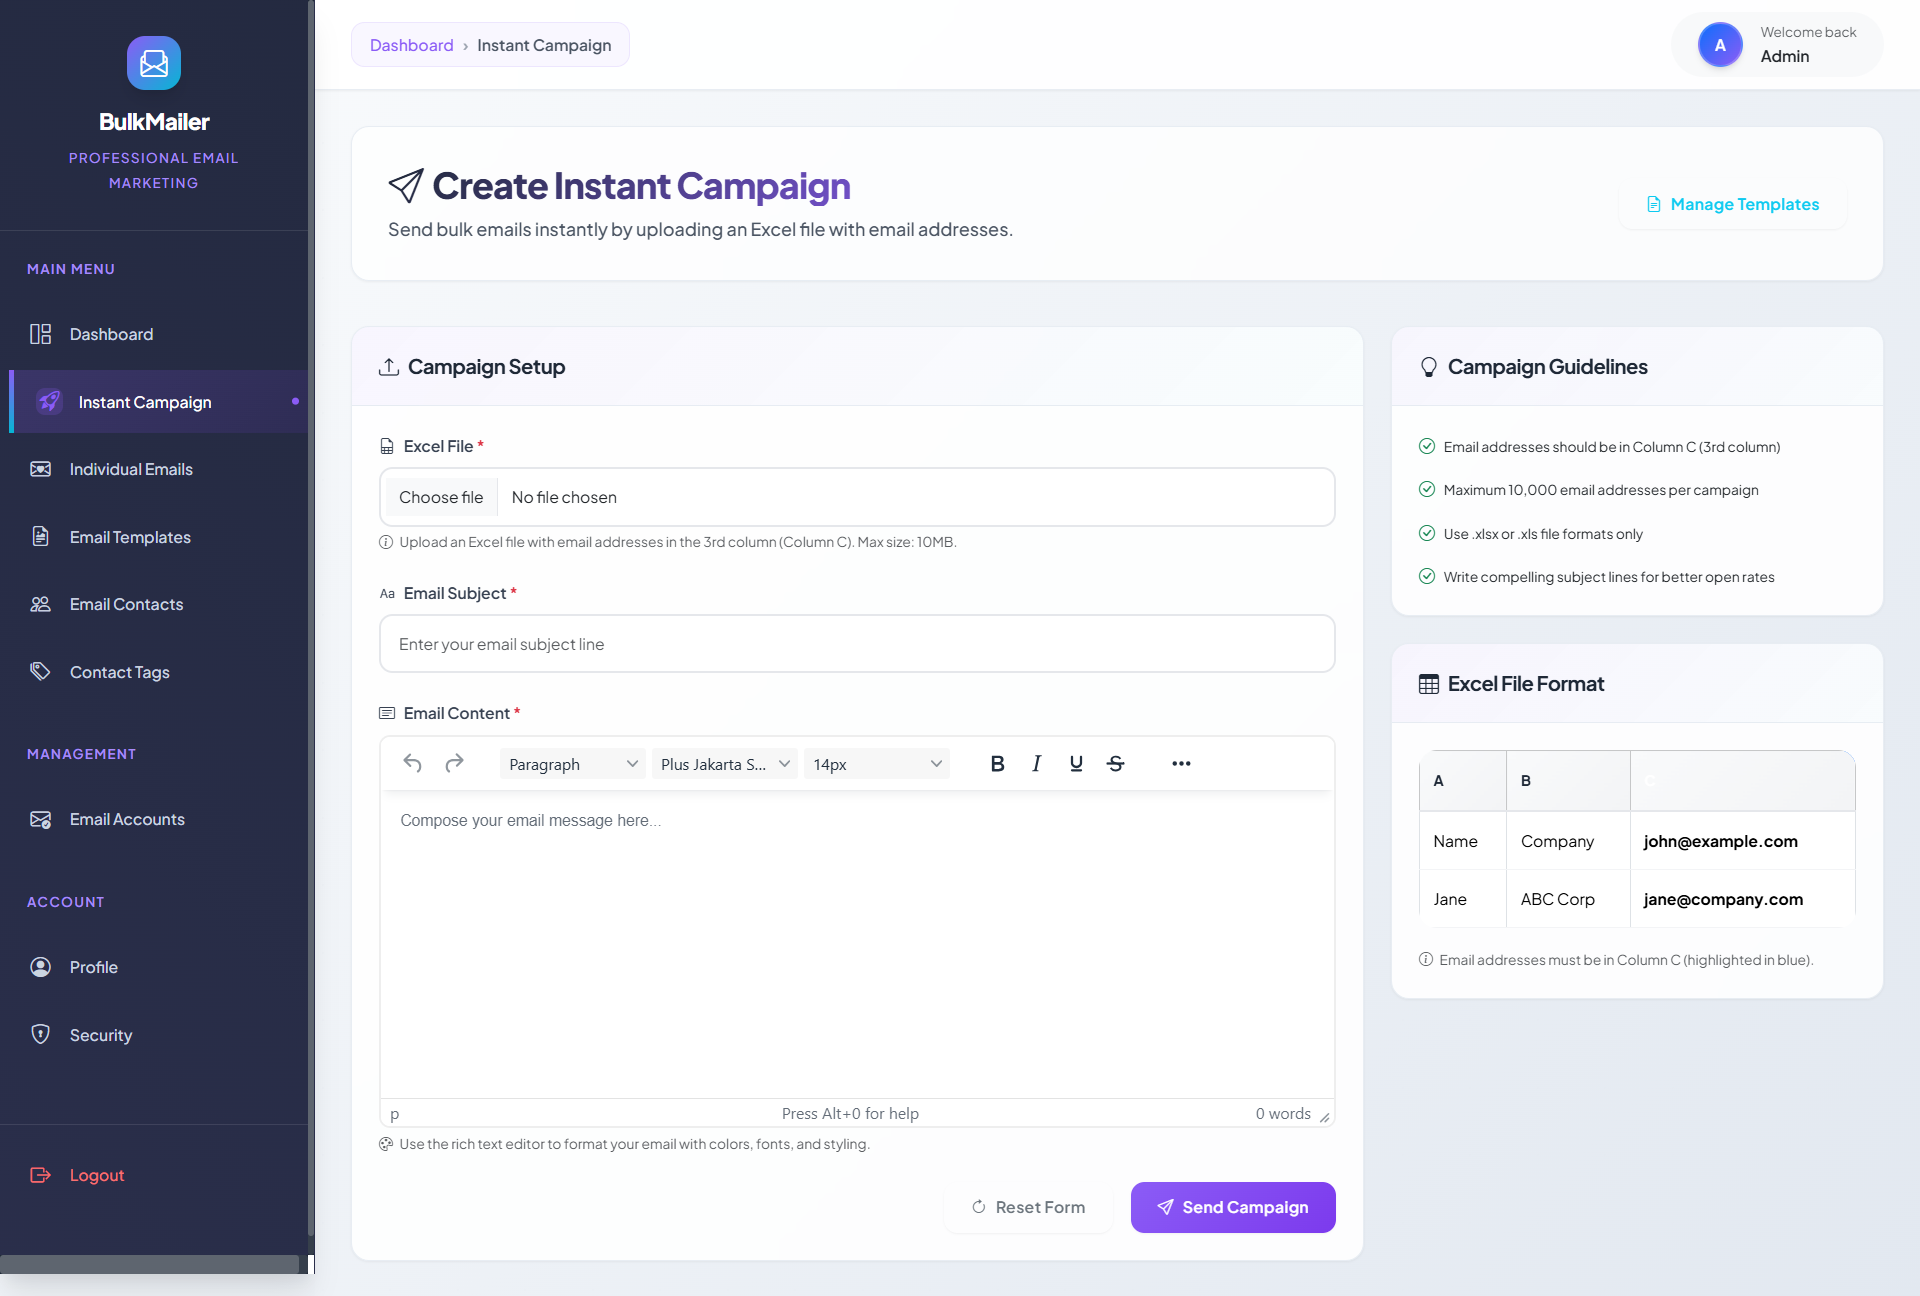
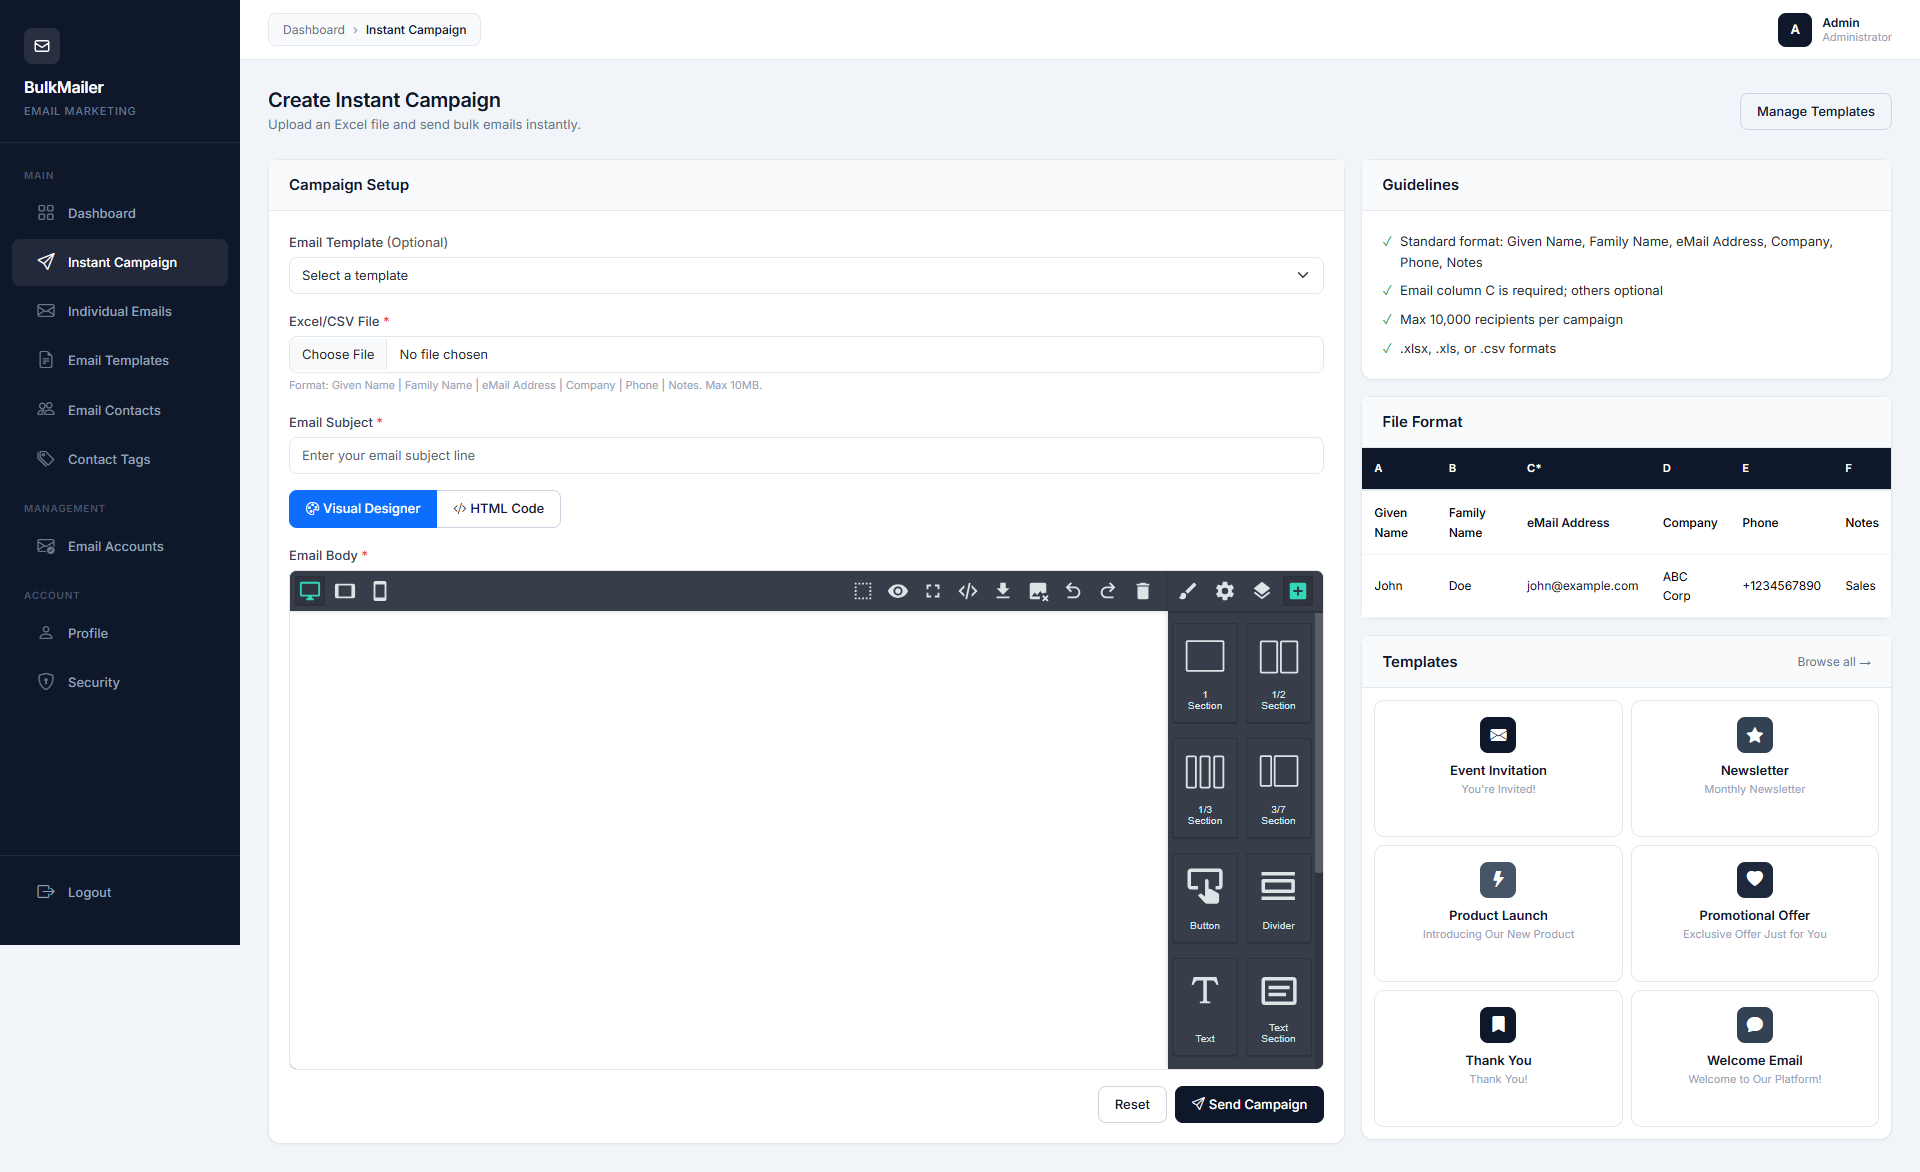
Update README and screenshots for v2.1 UI refresh

diff --git a/resources/views/contacts/index.blade.php b/resources/views/contacts/index.blade.php
@@ -203,7 +203,6 @@ document.addEventListener('DOMContentLoaded', function() {
         });
     });
 });
-</script>
 
 let deleteModalInstance = null;
 

diff --git a/README.md b/README.md
@@ -15,9 +15,9 @@
   <circle cx="95" cy="35" r="1" fill="white" opacity="0.4"/>
 </svg>
   
-  <h1>🚀 Bulk Email Sender v2.0</h1>
+  <h1>🚀 Bulk Email Sender v2.1</h1>
   
-  <p><strong>Professional Laravel-based email marketing solution with advanced contact management</strong></p>
+  <p><strong>Professional Laravel-based email marketing solution with drag-and-drop email builder</strong></p>
   
   <p>
     <img src="https://img.shields.io/badge/Laravel-10.x-red?style=for-the-badge&logo=laravel" alt="Laravel">
@@ -27,9 +27,8 @@
   </p>
   
   <p>
-    <img src="https://img.shields.io/github/stars/arafat-web/Bulk-Email-Sender?style=for-the-badge" alt="Stars">
-    <img src="https://img.shields.io/github/issues/arafat-web/Bulk-Email-Sender?style=for-the-badge" alt="Issues">
-    <img src="https://img.shields.io/github/forks/arafat-web/Bulk-Email-Sender?style=for-the-badge" alt="Forks">
+    <img src="https://img.shields.io/badge/version-2.1-blue?style=for-the-badge" alt="Version">
+    <img src="https://img.shields.io/badge/GrapesJS-Drag%20%26%20Drop-orange?style=for-the-badge" alt="GrapesJS">
   </p>
 </div>
 
@@ -37,16 +36,16 @@
 
 ## ✨ Features
 
-**What's New in v2.0:**
-- 👥 **Contact Management** - Complete contact database with tags and categories
-- 📧 **Individual Emails** - Send personalized emails to specific contacts  
-- 🏷 **Tag System** - Organize and target contacts with custom tags
-- 📊 **Excel Import/Export** - Seamlessly import contacts from CSV/Excel files
-- 🎨 **Modern UI** - Clean, responsive design with breadcrumb navigation
-- � **Queue System** - Background email processing with Laravel Queues
+**What's New in v2.1:**
+- 🎨 **Minimal 2-Color Design** — Clean, modern UI with dark slate & light gray palette
+- 🧩 **Drag & Drop Email Builder** — Visual GrapesJS editor for building emails without coding
+- 📧 **Modern Email Templates** — 6 professionally designed HTML email templates
+- 🔍 **Client-side Search** — Instant filtering across contacts and tags
+- 📱 **Fully Responsive** — Mobile-first design on every page
+- 📊 **Email Stats Tracking** — Sent counter, last-used timestamps per account
 
 **Core Features:**
-- ✅ Bulk email sending with HTML templates
+- ✅ Bulk email sending with drag-and-drop HTML builder
 - ✅ Contact management with tagging system
 - ✅ Excel/CSV import and export
 - ✅ Email validation and verification
